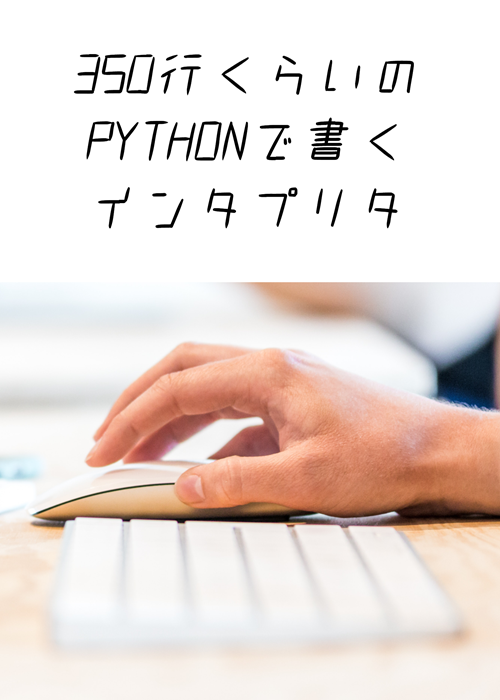
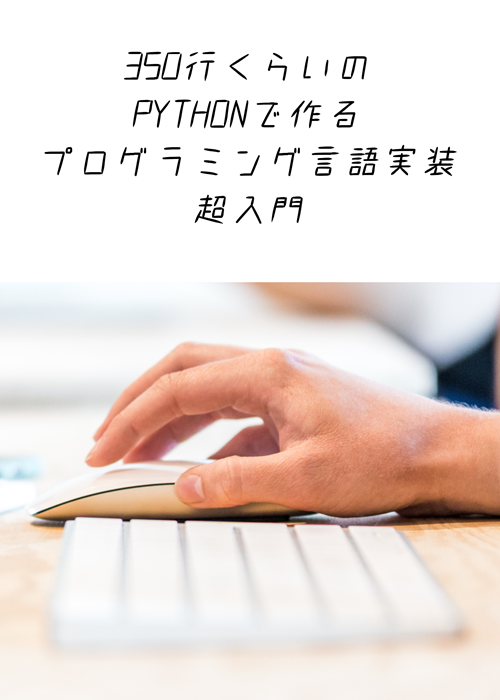
minilang本: タイトル等見直し

diff --git a/books/mini-interpreter-in-350-lines/01.introduction.md b/books/mini-interpreter-in-350-lines/01.introduction.md
@@ -2,27 +2,31 @@
 title: "はじめに"
 ---
 
-本書は350行弱のPythonのプログラムで、小さな、でも基本的な要素をそなえたインタプリタを書きながら言語処理系の基本を勉強しようという本です[^300lines]。超絶技巧で短くするということではなくて、350行程度で書ける仕様に絞って普通に書く、ということです。実用性は二の次になっています。ただでさえ速くはないPythonでインタプリタを書くわけで実行速度にはもとから期待できませんし。機能は絞りますが、特殊な仕様にはせず、見た目はだいたい普通のプログラミング言語にします。
+本書は350行弱のPythonのプログラムで、小さな、でも基本的な要素をそなえたプログラミング言語を作りながらプログラミング言語実装の基本を勉強しようという本です[^300lines]。超絶技巧で短くするということではなくて、機能を絞ることで350行程度に収めていますのでコード自体は普通で、Pythonの基本的なところがわかっていれば読むのにそれほど苦労はしないと思います。機能は絞りますが、特殊な文法にはせず、見た目はだいたい普通のプログラミング言語にします。
 
 [^300lines]: 300行に収められたらいいなと思っていたのですが、入れたいものを入れてたら超えてしまいました。姑息な真似までして300行に収めたソースもあります（https://github.com/koba925/minilang-book/blob/300lines/minilang.py）。
 
-インタプリタとかコンパイラとかいわゆる言語処理系って中はどうなってるの？なんか面白そうだけど難しいんじゃ？と思っている方[^myself]が勉強を始めるとっかかりにしてもらえれば、と思います。読み終わったとき、こうなってもらえればと思って書きました。
+プログラミング言語って中はどうなってるの？なんか面白そうだけど難しいんじゃ？と思っている方[^myself]が勉強を始めるとっかかりにしてもらえれば、と思います。
 
 [^myself]: 以前の私です。
 
-* 言語処理系の勉強をしたことがないひとでもちょっと読んでみようかなと思えること
+* プログラミング言語実装の勉強をしたことがないひとでもちょっと読んでみようかなと思えること
 * ちょっといじってみよう、自分で書いてみようと思えること
-* 言語処理系（インタプリタ）の基礎がわかり、本格的な本を読む準備になること
+* プログラミング言語実装の基礎がわかり、本格的な本を読む準備になること
 
 コードが短いので全体を一度に頭に入れることが可能で、改造もしやすく、学習の初期には適しているはずです。コードのサイズ感については "付録：全ソースコード" または https://github.com/koba925/minilang-book/blob/main/minilang.py を見てみてください。
+
+全くこういった勉強をしたことがない人にとっては初めて見る言葉がたくさん出てくると思います。できるだけ説明するようにしますが、コードを実際に見てみたり、全体がわかってからでないと意味がピンとこない部分があるかもしれません。知らない言葉が出てきてもそこであきらめず、先に進んでみてください。短いのでいったん最後までざっと見てからもう一度読んでみるというのもありだと思います。もちろん検索したり本を探してじっくり調べるのもよいことです。
 
 言語処理系の中身がわかると、既存のプログラミング言語を覚えたり使ったりするときもほんのりと「ここはこういうことだったんだな」とわかったりして楽しかったり役に立ったりします。日ごろフレームワークとかライブラリとかを忙しく調べてる方がちょっと目先を変えて勉強してみるのもよいのではないかなと思います。
 
 # 作るもの
 
-こんなコードが動かせるようになります。処理系はPythonで書きますが、作る言語の雰囲気はJavaScriptに近いです。自分の好みもありますが、言語処理系の本で作る言語はC言語寄りであることが多いのでつながりも考えて。すこし見慣れないところもあると思いますが、今は気になさらず。
+こんなコードが動かせるようになります。処理系はPythonで書きますが、作る言語の雰囲気はJavaScriptに近いです。自分の好みもありますが、言語処理系の本で作る言語はC言語寄り[^or-pascal]であることが多いのでつながりも考えてそうしています。すこし見慣れないところもあると思いますが、今は気になさらず。
 
-GCD（制御構造の例）
+[^or-pascal]: またはPascal系・・・と言ってもターゲットとしている読者層には通じないかも・・・
+
+最大公約数（GDC）を求めるプログラム。条件分岐（if文）や繰り返し（while文）は当然書けます。
 
 ```
 def gcd(a, b) {
@@ -38,7 +42,7 @@ def gcd(a, b) {
 print gcd(36, 12);
 ```
 
-フィボナッチ数列（再帰の例）
+フィボナッチ数列を求めるプログラム。再帰（自分自身を呼ぶこと）も問題ありません。
 
 ```
 def fib(n) {
@@ -49,7 +53,7 @@ def fib(n) {
 print fib(6);
 ```
 
-カウンター（無名関数・クロージャの例）
+カウンターを作るプログラム。おもしろいものではありませんが無名関数・クロージャ（あとで出てきます）の例として。
 
 ```
 def counter() {
@@ -69,7 +73,15 @@ print(c());
 
 # 勉強すること
 
-コンパクトにする一方で、インタプリタ実装上の基本的なコンセプトはできるだけ入るように考えました。以下のコンセプトをカバーしています。
+本書ではインタプリタの実装を学びます・・・といってもインタプリタって何？というひともいるかもしれませんね。
+
+ソースプログラムを読んで実行したりコンパイルしたりするプログラムのことを言語処理系と言います。言語処理系には大きく分けてインタプリタとコンパイラのふたつがあります。有名どころのインタプリタにはPythonやJavaScriptなどが、コンパイラにはCやGo、Rustなどがあります。インタプリタとコンパイラの違いについて書き始めると章がひとつできてしまいますが、本書では「ソースを読んですぐ実行するのがインタプリタ、いったんファイルを出力してそれを実行するのがコンパイラ」くらいに理解しておいてください[^outline]。
+
+[^outline]: このように、本書ではいろいろ用語を紹介していきますが細かい説明には踏み込まず、コードを読んだり書いたりしてイメージをつかんでいくことを優先します。
+
+インタプリタだといったんファイルに出力するという工程がない分コンパイラよりもイメージがつかみやすいはずです。インタプリタの実装の中にもコンパイラの実装につながる部分はたくさんありますのでいずれはコンパイラと思っている方でもムダはありません。
+
+本書では、実装を小さくする一方で、インタプリタ実装上の基本的なコンセプトはできるだけ入るように考えました。以下のコンセプトをカバーしています。知らない言葉が並んでいるかもしれませんが、本書を読み終わるころにはこれらの用語や実装のイメージができているはずです。
 
 * ツリーウォーク型インタプリタ
 * 字句解析・構文解析（再帰下降解析）・評価
@@ -83,7 +95,7 @@ print(c());
 
 逆に、これら以外のものはできるだけ排除しました。たとえばソースコードをファイルから読み込むことすらしていません。ソースコードを文字列として引数にとるメソッドがあるだけです（代わりに簡単なREPLを実装しています）。
 
-ツリーウォーク型インタプリタというのは、後述する抽象構文木をたどりながら実行していくタイプのインタプリタで、最も基本的な構成と言えます。インタプリタの作り方はさまざまありますが、本書ではツリーウォーク型インタプリタにしぼって説明していきます。
+ツリーウォーク型インタプリタというのは、後述する抽象構文木をたどりながら実行していくタイプのインタプリタで、最も基本的な構成と言えます（今は何を言ってるかわからなくて大丈夫です）。インタプリタの作り方はさまざまありますが、本書ではツリーウォーク型インタプリタにしぼって説明していきます。
 
 文字列、配列・辞書などのデータ構造やクラス、エラー処理、最適化・高速化などには触れていません。そのあたりは次のステップに進んでから勉強していただくということで。
 
@@ -91,9 +103,11 @@ print(c());
 
 今後本格的な言語処理系の勉強・開発にもつながるよう、大まかには普通のインタプリタの構成を踏襲しました（単純化したところはいたるところにあります）。また、用語の紹介を多めにしています。
 
+インタプリタを書くのにインタプリタを使うというのは普通はしない（遅くなるので）選択なのですが、普及している言語の中で、学習向けにコンパクトで読みやすく実装できそうなものということでPythonを採用しました。実用性は二の次です。
+
 言語処理系の動作を理解するのが主な目的なので、便利なツールやライブラリは使わず、イチから自分で書きます。「イチ」といってもいろいろありますが、本書ではPythonの基礎的な機能のみを使っています。インポートするライブラリは`sys`だけで、使っているのも`sys.stdin.read()`だけです（一時的に正規表現ライブラリを使いますがすぐに書き換えます）。
 
-ソースコードはそれほど凝った書き方はせず、（自分基準では）普通に書いたつもりです。制御構造やクラスは知っている、くらいの読者も想定して、基本を超えてるなと思ったところは都度説明しています。コメントも入っていませんが、本があるということでご了承ください。関数名・変数名はすこし長めにしてわかりやすくしたつもりです。
+ソースコードはそれほど凝った書き方はせず、（自分基準では）普通に書いたつもりです。制御構造やクラスは知っている、くらいの読者も想定して、基本を超えてるなと思ったところは都度説明しています。match文を多用していて、なじみのない方もいるかと思いますが、都度説明していきますので慣れてくると思います。コメントも入っていませんが、本があるということでご了承ください。関数名・変数名はすこし長めにしてわかりやすくしたつもりです。
 
 ただし、本書のソースコードはPythonの標準的なスタイルに比べると改行が少なく、1行に詰め込んだ形になっています[^formatter]。細かく改行して画面左側にソースが偏り、その分行数が増えてしまうよりも、縦横バランスよく伸びていたほうがひと目で見渡せる範囲が広く、内容が把握しやすいと考えているためです[^style-guide]。
 
@@ -101,7 +115,7 @@ print(c());
 
 [^style-guide]: チームで書くプログラムはちゃんとスタイルガイドに従いましょう。
 
-文章の方は、できあがったコードをパーツごとに開設するような形ではなく、最初はこれでプログラミング言語？と思うような本当に最小限の機能だけのインタプリタを作り、少しずつコードを追加しては解説して動かすという形にしています。開発を体験してるような気分になっていただこうという狙いです。コンパクトにするよりも読み進めやすいように考えました。とはいっても１冊の本となるようなボリュームではなく、小冊子くらいに収まっているんじゃないかなと思います[^volume]。
+文章の方は、できあがったコードをパーツごとに解説するような形ではなく、最初はこれでプログラミング言語？と思うような本当に最小限の機能だけのインタプリタを作り、少しずつコードを追加しては解説して動かすという形にしています。開発を体験してるような気分になっていただこうという狙いです。コンパクトにするよりも読み進めやすいように考えました。とはいっても１冊の本となるようなボリュームではなく、小冊子くらいに収まっているんじゃないかなと思います[^volume]。
 
 [^volume]: Zennで見てみると13万文字くらいあります。思ったより多かった。でもコードを全部載せたり、脚注やら余談やらが多いので本文の日本語はそこまででもないんじゃないかと・・・
 

diff --git a/books/mini-interpreter-in-350-lines/03.scanner-parser-evaluator.md b/books/mini-interpreter-in-350-lines/03.scanner-parser-evaluator.md
@@ -10,13 +10,15 @@ title: "字句解析・構文解析・評価"
 * 単語のつながりを文や式として認識する - 構文解析
 * 構文解析の結果を読んで実行する - 評価
 
+今の段階ではこれらが具体的に何をやるのかイメージできないかもしれませんが、これからコードにしていきますので心配は不要です。
+
 本書では基本的にはすこしずつ既存のコードに追加していく、という形で進めていきますが、ここではほぼ全書き換えになります。といっても、前章のコードや考え方は継承してはいて、全然違うコードになってしまった！というわけではありませんのでご安心ください。
 
 # 字句解析とは
 
 入力ソースコードはただの文字列（文字が並んだだけのもの）なのでなにも構造がありません。ここから単語を切り出して、何の単語か決めることを字句解析（Scanning）、字句解析するところ（字句解析器）をスキャナ(Scanner)、レキサ（Lexer）などと呼びます。
 
-また、切り出された単語をトークン（Token）と言います。トークンには、値（`123`や`true`など）やキーワード（`print`）、識別子（`var_a`）、記号（`+`、`;`）などがあります。そのため、字句解析器はトークナイザ（Tokenizer）とも呼ばれます。キーワードは言語で初めから定義済みの単語のことで、多くの言語では変数名などにすることはできず、予約語とも呼ばれます。識別子（Identifier）は変数名や関数名になるもので、要するに名前です。
+また、切り出された単語をトークン（Token）と言います。トークンには、値（`123`や`true`など）やキーワード（`print`や`if`など）、識別子（`var_a`）、記号（`+`、`;`）などがあります。そのため、字句解析器はトークナイザ（Tokenizer）とも呼ばれます。キーワードは言語で初めから定義済みの単語のことで、多くの言語では変数名などにすることはできず、予約語（Reserved word）とも呼ばれます。識別子（Identifier）は変数名や関数名になるもので、要するに名前です。
 
 前章のコードでは、以下のような処理が字句解析にあたります。ここでは空白を読み飛ばした後、切り出されたトークンを`command`に代入しています。これにより、字句解析以降はもとのソースコードがどうだったか気にせず、`print`と書いてあるんだな、と思って処理することができます。
 
@@ -232,9 +234,9 @@ GitHub: [コード](https://github.com/koba925/minilang-book/blob/2010_scanner) 
 
 [^evaluator]: エバリュエータと表記することはあまり見かけません。いくつかの言語で`eval()`として実装されているので`eval`と呼ばれていることが多い気がします。
 
-字句解析器が`p`と`r`と`i`と`n`と`t`が並んでいたら"print"だ、などというところまでは判断してくれるようになりましたが、まだ`print`と`123`と`;`が順番に並んでいるだけで、これがprint文であるということはわかっていません。`print`と`123`と`;`が順番に並んでいたら`123`を出力するprint文なんだなと判断するのが構文解析、判断した結果にしたがって実際に`123`を出力するのが評価です。
+字句解析器が`p`と`r`と`i`と`n`と`t`が並んでいたら"print"だ、などというところまでは判断してくれるようになりましたが、まだ`print`と`123`と`;`が順番に並んでいるだけで、これらがひとまとまりでprint文になっているということはわかっていません。`print`と`123`と`;`が順番に並んでいたら`123`を出力するprint文なんだなと判断するのが構文解析、判断した結果にしたがって実際に`123`を出力するのが評価です。
 
-構文解析した結果は抽象構文木（AST: Abstract Syntax Tree）に出力します。ASTはクラスや構造体で専用の型を作って実装することが多いのですが、minilangではただの配列[^list]を使います。配列であればひとつひとつの要素を定義しなくて済むことと、デバッグの時にただ`print`（これはPythonのprint）してやるだけでそこそこ見やすく表示されるという利点があり採用しました。言語処理系の構造的なところには影響しないので、今後より本格的な処理系を書くことになっても考え方は変わりません。
+構文解析した結果は抽象構文木（AST: Abstract Syntax Tree）と呼ばれるものに出力します。ASTとはなんぞや、というのは説明するよりもこれから実例を見ていくのがわかりやすいでしょう。ASTはクラスや構造体で専用の型を作って実装することが多いのですが、minilangではただの配列[^list]を使います。配列であればひとつひとつの要素を定義しなくて済むことと、デバッグの時にただ`print`（これはPythonのprint）してやるだけでそこそこ見やすく表示されるという利点があり採用しました。言語処理系の構造的なところには影響しないので、今後より本格的な処理系を書くことになっても考え方は変わりません。
 
 [^list]: Pythonでは配列のことを「リスト」(list)と言いますが、「リスト」は複数の意味で使われていて混乱を招きそうなので本書では「配列」(array)と呼びます。
 

diff --git a/books/mini-interpreter-in-350-lines/02.number-print.md b/books/mini-interpreter-in-350-lines/02.number-print.md
@@ -41,7 +41,10 @@ print 123;
 
 本書で作っていく言語は「minilang」と呼ぶことにして、minilang.pyというファイルで書いていきます。GitHubでは https://github.com/koba925/minilang-book/blob/1010_regex_implementation にあります。先におことわりしておくと、本章のコードはあとで書き直しになるので、写経しながら読んでいこうという方も読むだけで通過してしまってOKです。
 
-さきほど書いた仕様からして正規表現を使うと楽に書けそうです。
+さきほど書いた仕様からして正規表現[^regular-expression]を使うと楽に書けそうです(正規表現って何？という人はとりあえずそんなものか、くらいで進んで大丈夫です)。
+
+[^regular-expression]: 正規表現っていう言葉、プログラミングでよく出てくるのでなじみのあるひとも多いと思いますが、実はよく研究された計算機科学の用語です。「正規表現」「オートマトン」「形式言語」あたりのことばで検索してみるといろいろ出てきます。
+また、`r"^\s*print\s*(\d+)\s*;\s*$"`といった正規表現はひとつの言語とみなすことができます。PythonやJavascriptなどのようにいろいろなことができる言語ではなく、文字列がある形になっているかを判定するという目的にのみ使われる言語なのでDSL (Domain Specific Language) とも呼ばれます。特定の目的に絞っているのでその目的に対してはうまく書けるようになっています。
 
 ```py
 import sys, re
@@ -125,7 +128,7 @@ def interpret(source):
 
 `interpret()`がインタプリタ本体です。
 
-まず`re.compile`で、`print <数>;`に対応する正規表現[^regular-expression]のパターンを作っています。正規表現に慣れてない人は「？」となっているかもしれませんが、次に自前で書き直す部分なのでさらっと読み飛ばしても続きにその後の理解に影響はありません。
+まず`re.compile`で、`print <数>;`に対応する正規表現のパターンを作っています。正規表現に慣れてない人は「？」となっているかもしれませんが、次に自前で書き直す部分なのでさらっと読み飛ばしてもその後の理解に影響はありません。
 
 次が実際に入力ソースコードを読んで実行する部分です。
 
@@ -139,9 +142,6 @@ def interpret(source):
 ```
 
 パターンにマッチすると`statement.group(1)`に<数>の部分が反映されますのでそれを出力し、文字列の続きに進む、というのを入力ソースコードの末尾まで繰り返します。パターンに合致しない場合は`statement`が`None`になりますので`assert`でチェックしてその場で終了します。
-
-[^regular-expression]: 正規表現っていう言葉、プログラミングでよく出てくるのでなじみのあるひとも多いと思いますが、実はよく研究された計算機科学の用語です。「正規表現」「オートマトン」「形式言語」あたりのことばで検索してみるといろいろ出てきます。
-また、`r"^\s*print\s*(\d+)\s*;\s*$"`といった正規表現はひとつの言語とみなすことができます。PythonやJavascriptなどのようにいろいろなことができる言語ではなく、文字列がある形になっているかを判定するという目的にのみ使われる言語なのでDSL (Domain Specific Language) とも呼ばれます。特定の目的に絞っているのでその目的に対してはうまく書けるようになっています。
 
 次はREPLの部分です。実行ソースコードのメインループになるところです。
 
